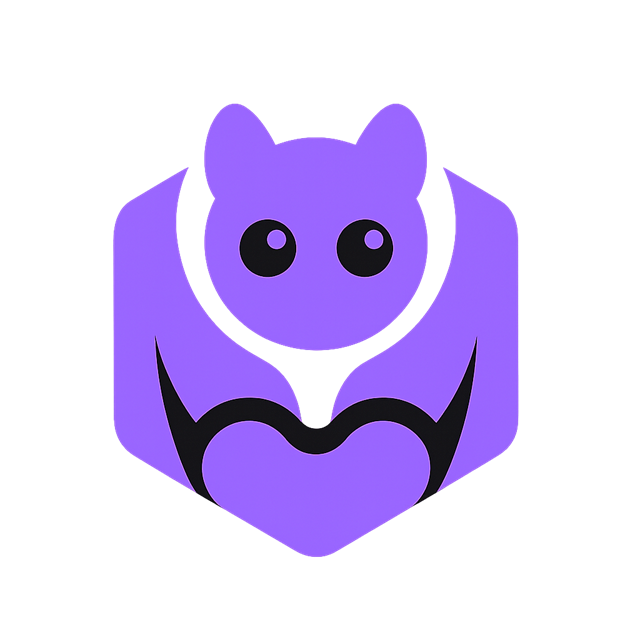
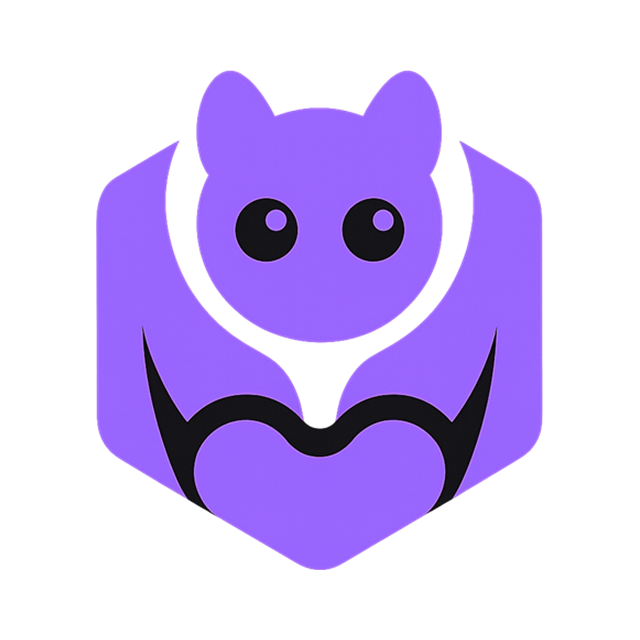
fix(site): normalize product marks and restore engraving reveals

Changed region(s): [[0.125, 0.0938, 0.875, 0.9062]]

diff --git a/src/App.jsx b/src/App.jsx
@@ -42,6 +42,12 @@ function useAkashaMotion(enabled) {
             scrollTrigger: { trigger: element, start: 'top 88%', once: true },
           });
         });
+        gsap.utils.toArray('[data-engraving]').forEach(element => {
+          gsap.fromTo(element, { clipPath: 'inset(100% 0 0 0)' }, {
+            clipPath: 'inset(0% 0 0 0)', duration: 1.05, ease: 'power3.out',
+            scrollTrigger: { trigger: element, start: 'top 91%', once: true },
+          });
+        });
         gsap.fromTo('[data-roadmap-rail]', { scaleY: 0 }, {
           scaleY: 1, ease: 'none',
           scrollTrigger: { trigger: '.roadmap-list', start: 'top 75%', end: 'bottom 70%', scrub: true },
@@ -130,7 +136,7 @@ function Hero({ language, openModal }) {
         </div>
       </div>
       <figure className="hero-plate" data-hero-plate>
-        <div className="museum-mat"><img src="/assets/museum-angel.jpg" alt="" width="900" height="1440" fetchPriority="high" /></div>
+        <div className="museum-mat"><img data-engraving src="/assets/museum-angel.jpg" alt="" width="900" height="1440" fetchPriority="high" /></div>
         <figcaption>PLATE I · VERIFIABLE INTELLIGENCE</figcaption>
       </figure>
       <blockquote data-hero-meta>“{tx(en.heroQuote, pt.heroQuote, language)}”</blockquote>
@@ -156,7 +162,7 @@ function Products({ language, openModal }) {
   return <section className="gallery section" id="products" aria-labelledby="products-title"><div className="shell">
     <div className="section-heading" data-reveal><div><p className="eyebrow">{c.sectionProducts}</p><h2 id="products-title">{c.productsTitle}</h2></div><p>{c.productsIntro}</p></div>
     <div className="catalog">{c.products.map((product, index) => <article className="catalog-entry" id={product.id} data-reveal key={product.id}>
-      <div className="catalog-visual"><img {...productVisuals[index]} width={index === 0 ? 820 : 640} height={index === 0 ? 1122 : 640} loading="lazy" /><span>{product.index}</span></div>
+      <div className="catalog-visual"><img data-engraving {...productVisuals[index]} width={index === 0 ? 820 : 640} height={index === 0 ? 1122 : 640} loading="lazy" /><span>{product.index}</span></div>
       <div className="catalog-copy"><div className="record-line"><span>{product.index}</span><strong>{product.status}</strong></div><h3>{product.name}</h3><p className="product-role">{product.role}</p><p className="product-text">{product.text}</p><ul>{product.features.map(feature => <li key={feature}><span>◇</span>{feature}</li>)}</ul><div className="tag-list">{product.tags.map(tag => <span key={tag}>{tag}</span>)}</div><p className="product-note">{product.note}</p>{index === 0 ? <button className="text-link" type="button" onClick={() => openModal('model')}>{c.productLinks[index]}<ArrowRight /></button> : <a className="text-link" href={links[index]}>{c.productLinks[index]}<ArrowUpRight /></a>}</div>
     </article>)}</div>
   </div></section>;
@@ -177,7 +183,7 @@ function Systems({ language }) {
   const c = content[language];
   return <section className="archive section" id="systems" aria-labelledby="systems-title"><div className="archive-watermark" aria-hidden="true">INSTRUMENTS</div><div className="shell">
     <div className="section-heading inverse" data-reveal><div><p className="eyebrow">{c.systemsLabel}</p><h2 id="systems-title">{c.systemsTitle}</h2></div><p>{c.systemsIntro}</p></div>
-    <div className="instrument-grid">{c.systems.map(system => <article className={`instrument ${system.accent}`} id={system.id} data-reveal key={system.id}><div className="instrument-index">{system.index}</div><div className="instrument-mark"><img src={system.mark} alt={system.name} width="700" height="700" loading="lazy" /></div><div className="instrument-copy"><span>{system.status}</span><h3>{system.name}</h3><p className="instrument-role">{system.role}</p><p>{system.text}</p><a href={system.href}>{c.systemsCta}<ArrowUpRight /></a></div></article>)}</div>
+    <div className="instrument-grid">{c.systems.map(system => <article className={`instrument ${system.accent}`} id={system.id} data-reveal key={system.id}><div className="instrument-index">{system.index}</div><div className="instrument-mark"><img data-engraving src={system.mark} alt={system.name} width="640" height="640" loading="lazy" /></div><div className="instrument-copy"><span>{system.status}</span><h3>{system.name}</h3><p className="instrument-role">{system.role}</p><p>{system.text}</p><a href={system.href}>{c.systemsCta}<ArrowUpRight /></a></div></article>)}</div>
     <Terminal language={language} />
   </div></section>;
 }

diff --git a/src/styles.css b/src/styles.css
@@ -83,7 +83,7 @@ ul, ol { margin: 0; padding: 0; list-style: none; }
 .text-link.light { color: var(--bone); }
 .hero-plate { position: relative; z-index: 1; justify-self: end; width: min(100%, 380px); margin: 0; }
 .museum-mat { overflow: hidden; padding: 13px; border: 1px solid rgba(26, 20, 13, .28); background: #dfd1b7; box-shadow: 18px 22px 50px rgba(53, 37, 16, .18); }
-.museum-mat img { width: 112%; max-width: none; aspect-ratio: 5/8; object-fit: cover; object-position: center; transform: translateX(-7%); filter: sepia(.15) contrast(.94); }
+.museum-mat img { width: 120%; max-width: none; aspect-ratio: 5/8; object-fit: cover; object-position: center; transform: translateX(-15%); filter: sepia(.15) contrast(.94); }
 .hero-plate figcaption { padding-top: 10px; color: #6d5731; font: 700 8px var(--font-mono); text-align: right; }
 .hero-stage blockquote { position: absolute; z-index: 2; left: 0; bottom: 18px; max-width: 520px; color: rgba(26, 20, 13, .68); font: italic 15px var(--font-display); }
 .hero-record { position: relative; z-index: 3; min-height: 52px; display: flex; align-items: center; justify-content: space-between; gap: 18px; border-top: 1px solid var(--line); font: 700 8px var(--font-mono); color: #715d38; }
@@ -125,13 +125,13 @@ ul, ol { margin: 0; padding: 0; list-style: none; }
 .product-note { margin: 17px 0 22px; color: rgba(26, 20, 13, .55); font: 11px/1.6 var(--font-mono); }
 
 .archive { position: relative; overflow: hidden; background: var(--archive); color: var(--bone); }
-.archive-watermark { position: absolute; top: 50px; left: 50%; transform: translateX(-50%); color: rgba(236, 228, 210, .025); font: 400 148px var(--font-display); white-space: nowrap; pointer-events: none; }
+.archive-watermark { position: absolute; top: 4px; left: 50%; transform: translateX(-50%); color: rgba(236, 228, 210, .025); font: 400 148px var(--font-display); white-space: nowrap; pointer-events: none; }
 .instrument-grid { position: relative; display: grid; grid-template-columns: repeat(3, 1fr); border: 1px solid var(--line-dark); }
 .instrument { min-width: 0; display: flex; flex-direction: column; border-right: 1px solid var(--line-dark); background: rgba(27, 24, 19, .78); }
 .instrument:last-child { border-right: 0; }
 .instrument-index { padding: 17px 20px; border-bottom: 1px solid var(--line-dark); color: var(--bone-dim); font: 700 10px var(--font-mono); }
 .instrument-mark { height: 245px; display: grid; place-items: center; overflow: hidden; border-bottom: 1px solid var(--line-dark); }
-.instrument-mark img { width: 74%; height: 82%; object-fit: contain; filter: drop-shadow(0 18px 28px rgba(0, 0, 0, .42)); }
+.instrument-mark img { width: 72%; height: 72%; object-fit: contain; object-position: center; filter: drop-shadow(0 18px 28px rgba(0, 0, 0, .42)); }
 .instrument-copy { padding: 27px; display: flex; flex: 1; flex-direction: column; align-items: flex-start; }
 .instrument-copy > span { font: 700 9px var(--font-mono); color: var(--gold-bright); }
 .instrument-copy h3 { margin-top: 25px; font: 600 33px var(--font-display); text-transform: uppercase; }
